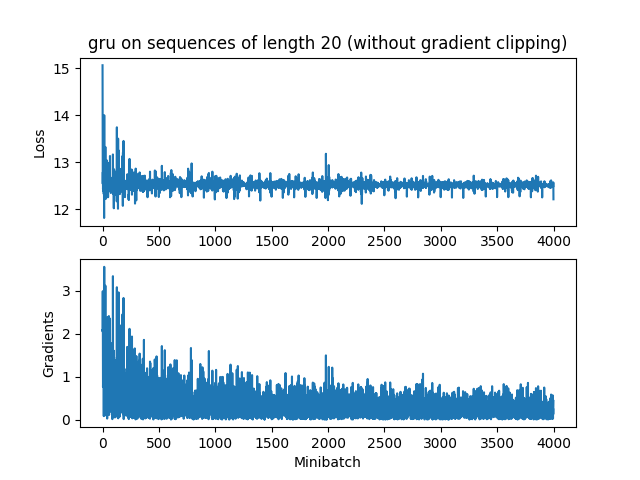
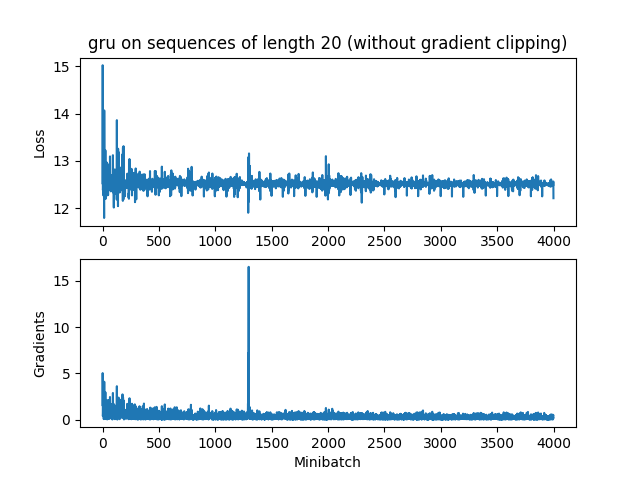
updated with feedback

diff --git a/q3_gru_cell.py b/q3_gru_cell.py
@@ -69,18 +69,18 @@ class GRUCell(tf.nn.rnn_cell.RNNCell):
                                   initializer=tf.contrib.layers.xavier_initializer())
             U_r = tf.get_variable("U_r", shape=(self.state_size, self.state_size),
                                   initializer=tf.contrib.layers.xavier_initializer())
-            b_r = tf.get_variable("b_r", shape=[self.state_size], initializer=tf.contrib.layers.xavier_initializer())
+            b_r = tf.get_variable("b_r", shape=[self.state_size], initializer=tf.constant_initializer(0.0))
 
             W_z = tf.get_variable("W_z", shape=(self.input_size, self.state_size), initializer=tf.contrib.layers.xavier_initializer())
             U_z = tf.get_variable("U_z", shape=(self.state_size, self.state_size),
                                   initializer=tf.contrib.layers.xavier_initializer())
-            b_z = tf.get_variable("b_z", shape=[self.state_size], initializer=tf.contrib.layers.xavier_initializer())
+            b_z = tf.get_variable("b_z", shape=[self.state_size], initializer=tf.constant_initializer(0.0))
 
             W_o = tf.get_variable("W_o", shape=(self.input_size, self.state_size),
                                   initializer=tf.contrib.layers.xavier_initializer())
             U_o = tf.get_variable("U_o", shape=(self.state_size, self.state_size),
                                   initializer=tf.contrib.layers.xavier_initializer())
-            b_o = tf.get_variable("b_o", shape=[self.state_size], initializer=tf.contrib.layers.xavier_initializer())
+            b_o = tf.get_variable("b_o", shape=[self.state_size], initializer=tf.constant_initializer(0.0))
             z_t = tf.nn.sigmoid(tf.matmul(inputs,W_z)+tf.matmul(state, U_z)+b_z)
             r_t = tf.nn.sigmoid(tf.matmul(inputs,W_r)+tf.matmul(state, U_r)+b_r)
             o_t = tf.tanh(tf.matmul(inputs, W_o) + tf.matmul(r_t*state,U_o) + b_o)

diff --git a/q3_gru.py b/q3_gru.py
@@ -323,7 +323,7 @@ def do_sequence_prediction(args):
     with tf.Graph().as_default():
         # You can change this around, but make sure to reset it to 41 when
         # submitting.
-        tf.set_random_seed(59)
+        tf.set_random_seed(41)
 
         # Initializing RNNs weights to be very large to showcase
         # gradient clipping.
